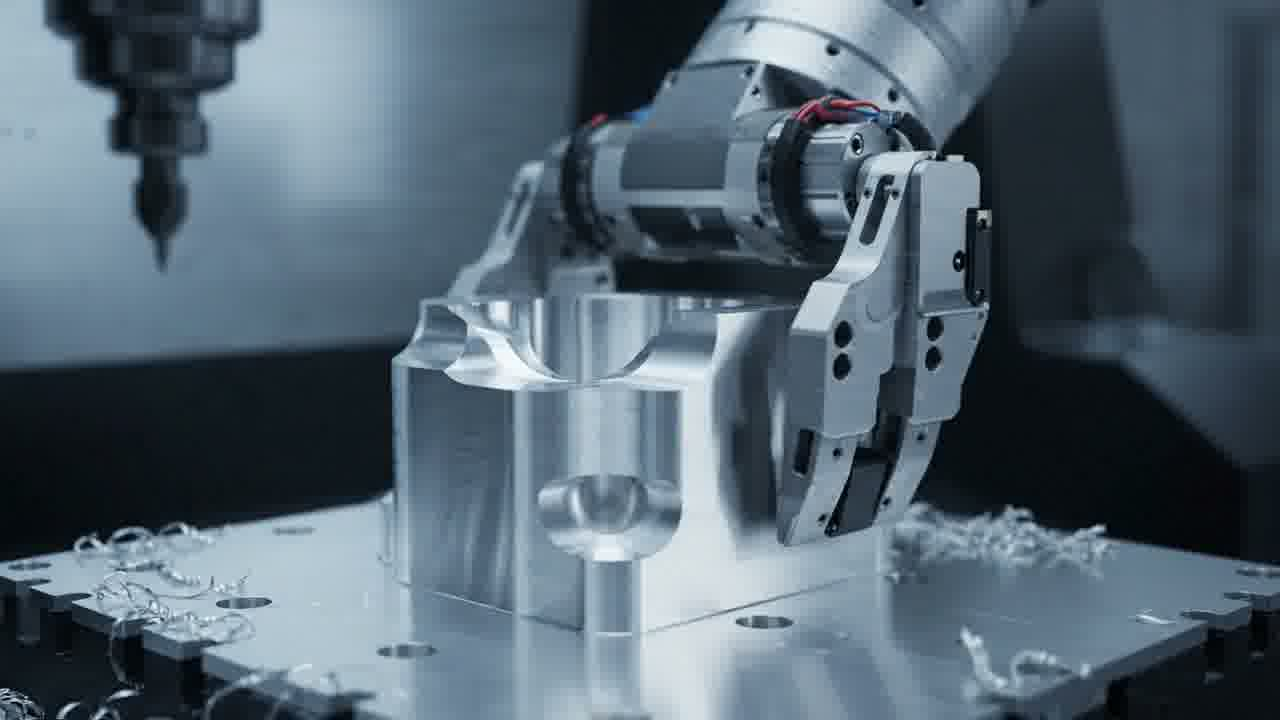
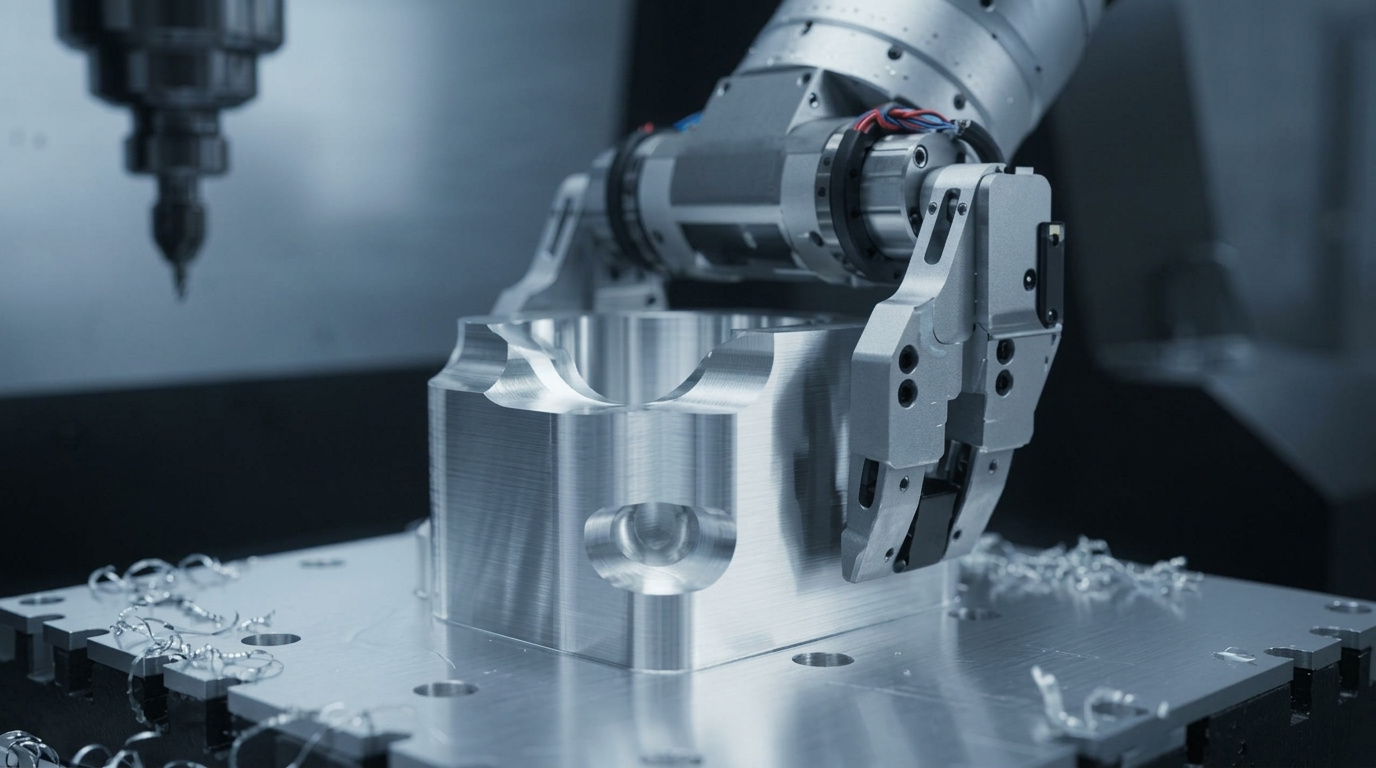
UI push

diff --git a/src/app/components/hero/hero.component.scss b/src/app/components/hero/hero.component.scss
@@ -40,6 +40,9 @@
   width: 100%;
   height: 100%;
   display: block;
+  image-rendering: -webkit-optimize-contrast;
+  image-rendering: crisp-edges;
+  filter: contrast(1.08) brightness(1.04) saturate(1.05);
 }
 
 .cinematic-vignette {
@@ -47,9 +50,9 @@
   top: 0; left: 0; 
   width: 100%; height: 100%;
   background: 
-    radial-gradient(circle at 62% 48%, rgba(0,0,0,0.05) 0%, rgba(0,0,0,0.65) 60%, #000 95%),
-    linear-gradient(90deg, rgba(0,0,0,0.88) 0%, rgba(0,0,0,0.4) 45%, rgba(0,0,0,0.1) 70%, rgba(0,0,0,0.7) 100%),
-    linear-gradient(180deg, rgba(0,0,0,0.7) 0%, transparent 18%, transparent 78%, #000 100%);
+    radial-gradient(circle at 65% 48%, rgba(0,0,0,0) 0%, rgba(0,0,0,0.3) 65%, #000 98%),
+    linear-gradient(90deg, rgba(0,0,0,0.85) 0%, rgba(0,0,0,0.58) 42%, rgba(0,0,0,0.05) 70%, rgba(0,0,0,0.6) 100%),
+    linear-gradient(180deg, rgba(0,0,0,0.6) 0%, transparent 18%, transparent 78%, #000 100%);
   z-index: 2;
   pointer-events: none;
 }
@@ -126,6 +129,14 @@
   box-sizing: border-box;
 }
 
+.hero-text-card {
+  max-width: 660px;
+  display: flex;
+  flex-direction: column;
+  align-items: flex-start;
+  text-align: left;
+}
+
 .text-3 .gradient-text {
   font-size: clamp(1.75rem, 6vw, 4.25rem);
   filter: drop-shadow(0 4px 10px rgba(0,0,0,0.6));
@@ -168,6 +179,38 @@
   text-transform: none !important;
   max-width: 600px;
   line-height: 1.6;
+}
+
+.hero-specs-pills {
+  display: flex;
+  flex-wrap: wrap;
+  gap: 0.65rem;
+  margin-top: 1.15rem;
+  margin-bottom: 0.25rem;
+}
+
+.spec-pill {
+  display: inline-flex;
+  align-items: center;
+  gap: 0.5rem;
+  padding: 0.35rem 0.85rem;
+  border-radius: 9999px;
+  background: rgba(255, 255, 255, 0.07);
+  border: 1px solid rgba(255, 255, 255, 0.14);
+  backdrop-filter: blur(12px);
+  -webkit-backdrop-filter: blur(12px);
+  color: #f1f5f9;
+  font-size: clamp(0.72rem, 1.4vw, 0.825rem);
+  font-weight: 500;
+  letter-spacing: 0.02em;
+}
+
+.spec-dot {
+  width: 6px;
+  height: 6px;
+  border-radius: 50%;
+  background: #38bdf8;
+  box-shadow: 0 0 8px #38bdf8;
 }
 
 /* --- Responsive Media Queries --- */

diff --git a/src/app/components/hero/hero.component.html b/src/app/components/hero/hero.component.html
@@ -23,12 +23,30 @@
 
     <!-- Phase 3 Text: Final landing state within the cinematic scroll -->
     <div class="cinematic-text text-3">
-      <span class="hero-eyebrow">PRODUCT DEVELOPMENT & ENGINEERING</span>
-      <h1 class="gradient-text">From Idea to<br>Market-Ready<br>Product.</h1>
-      <p class="final-desc">We help startups, engineers and businesses transform product ideas into functional, manufacturable and tested products.</p>
-      <div class="hero-actions">
-        <a href="#projects" class="btn btn-primary btn-lg">Start Your Project</a>
-        <a href="#work" class="btn btn-outline btn-lg">View Our Work</a>
+      <div class="hero-text-card">
+        <span class="hero-eyebrow">PRODUCT DEVELOPMENT & ENGINEERING</span>
+        <h1 class="gradient-text">From Idea to<br>Market-Ready<br>Product.</h1>
+        <p class="final-desc">We help startups, engineers and businesses transform product ideas into functional, manufacturable and tested products.</p>
+        
+        <div class="hero-specs-pills">
+          <div class="spec-pill">
+            <span class="spec-dot"></span>
+            <span>5-Axis CNC Precision</span>
+          </div>
+          <div class="spec-pill">
+            <span class="spec-dot"></span>
+            <span>±0.001mm Tolerance</span>
+          </div>
+          <div class="spec-pill">
+            <span class="spec-dot"></span>
+            <span>ISO 9001 Certified</span>
+          </div>
+        </div>
+
+        <div class="hero-actions">
+          <a href="#projects" class="btn btn-primary btn-lg">Start Your Project</a>
+          <a href="#work" class="btn btn-outline btn-lg">View Our Work</a>
+        </div>
       </div>
     </div>
 

diff --git a/src/app/components/hero/hero.component.ts b/src/app/components/hero/hero.component.ts
@@ -175,6 +175,9 @@ export class HeroComponent implements OnInit, AfterViewInit, OnDestroy {
     ctx.save();
     ctx.scale(dpr, dpr);
 
+    ctx.imageSmoothingEnabled = true;
+    ctx.imageSmoothingQuality = 'high';
+
     // Compute cover dimensions
     const imgRatio = img.naturalWidth / img.naturalHeight;
     const canvasRatio = width / height;
